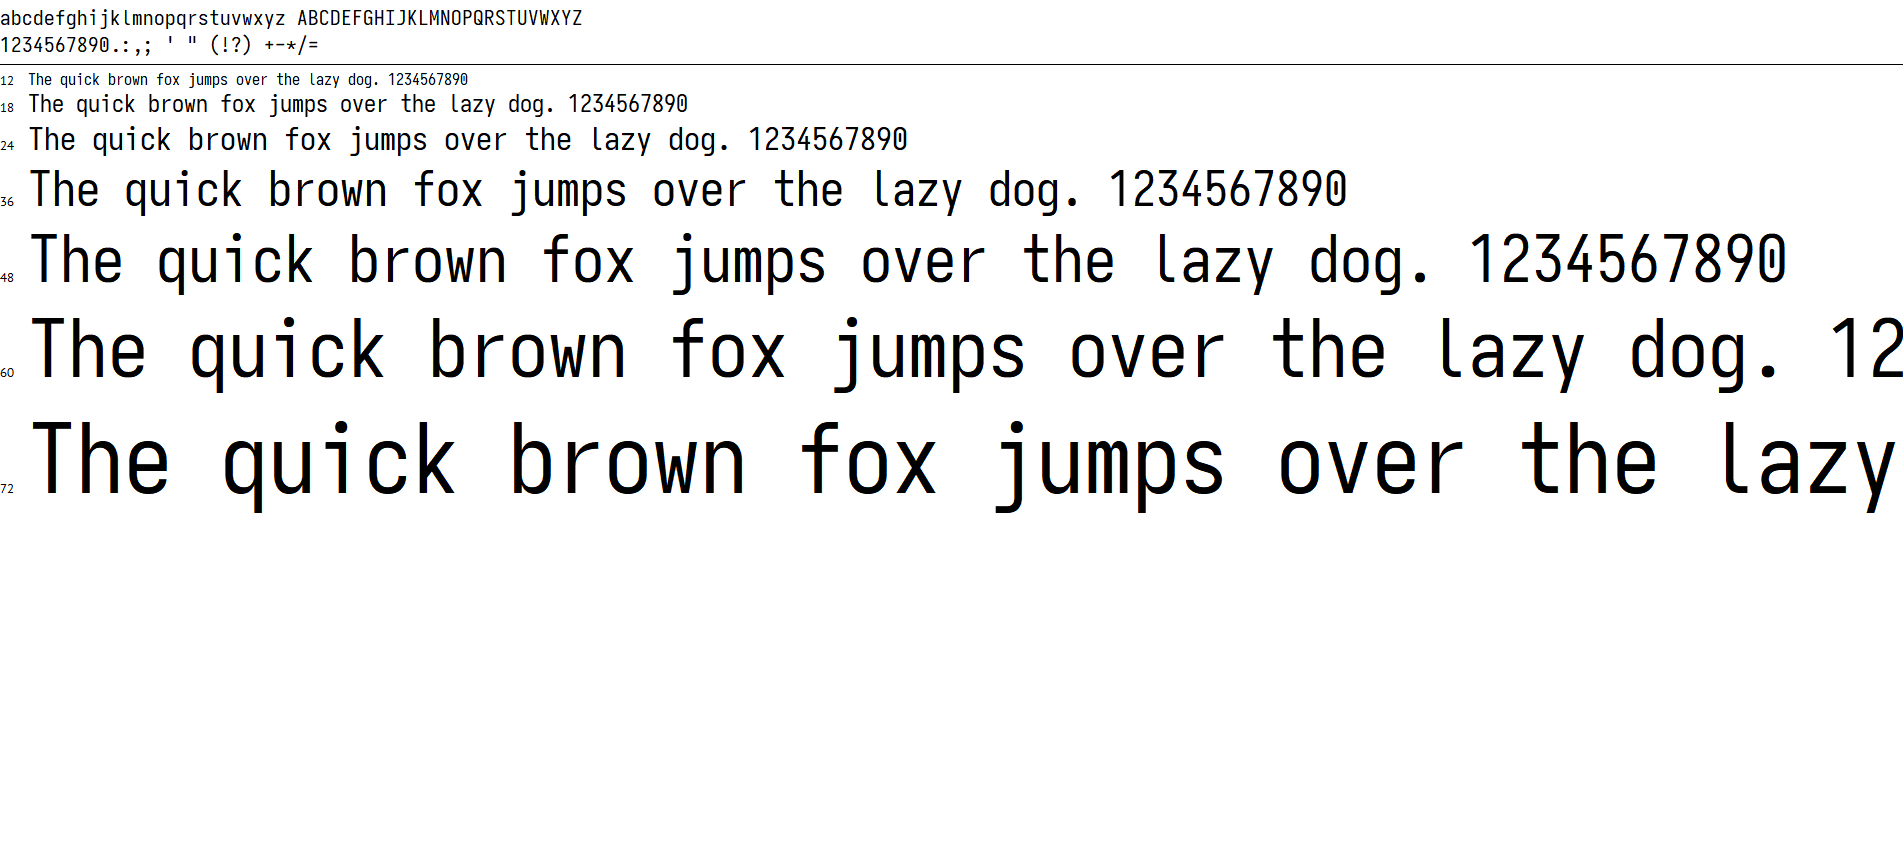
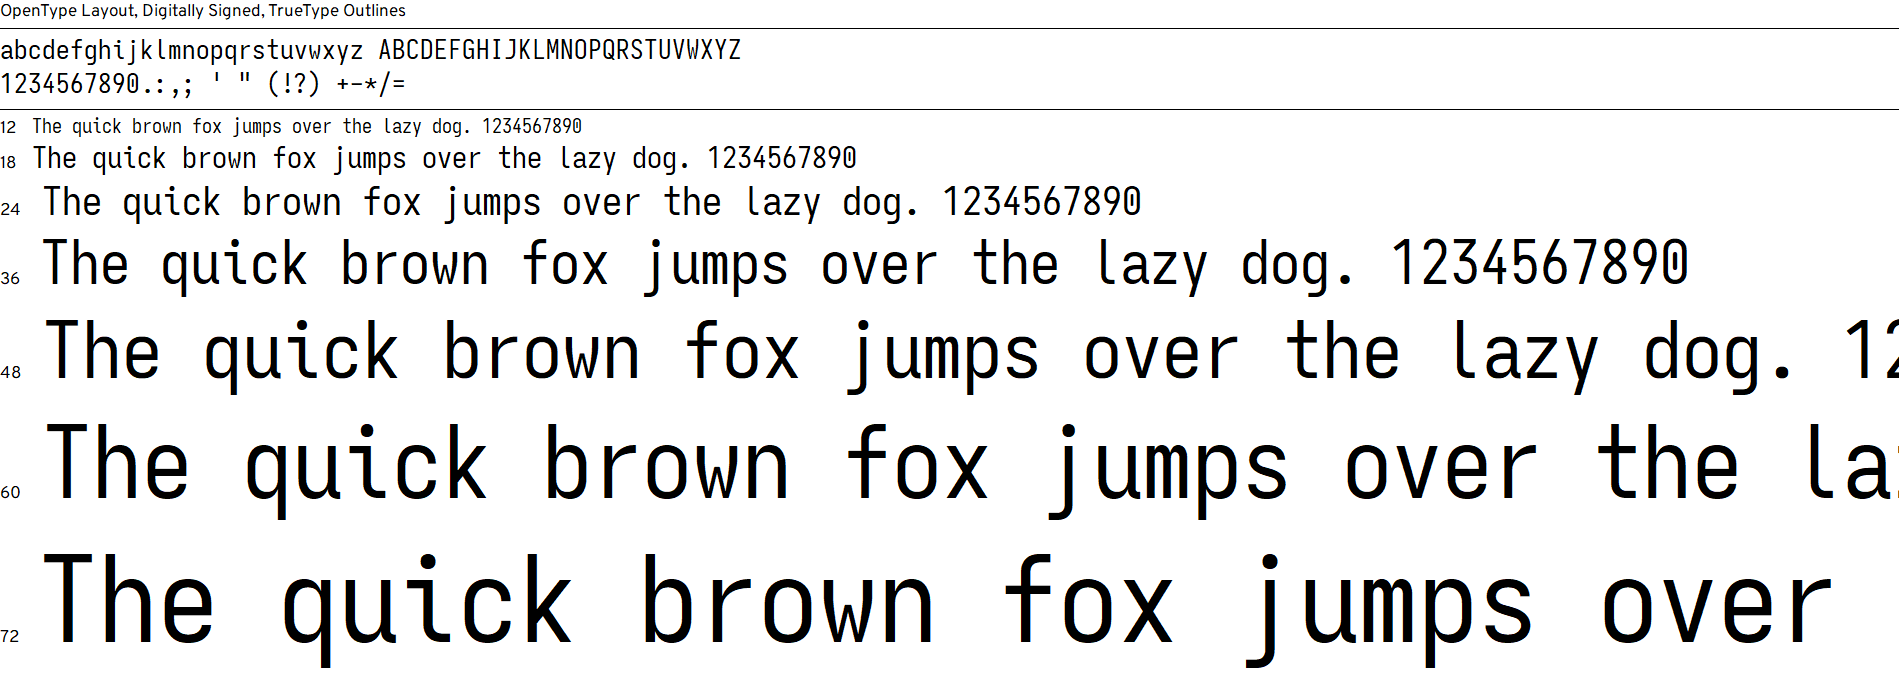
Updated personal-works/trentb-on-gatsby page

diff --git a/src/pages/works/personal-works/trentb-on-gatsby.js b/src/pages/works/personal-works/trentb-on-gatsby.js
@@ -124,21 +124,14 @@ export default function TrentBOnGatsby() {
         <ul>
           <li>
             <a 
-              href="https://fonts.google.com/specimen/PT+Sans">
-              PT Sans
+              href="https://fonts.google.com/specimen/Overpass">
+              Overpass
             </a>
-            : My favourite font that I've used almost anywhere: It's the default 
-            font I've set for OneNote and Word, and it's a font I've set as the 
-            system default using a regedit script. It's only fitting that it's 
-            also the default font for the content body.
-          </li>
-          <li>
-            <a
-              href="https://fonts.google.com/specimen/Monda">
-              Monda
-            </a>
-            : Its nice blocky style makes it a good font for the navigation bar, 
-            and it blends in very well with the other fonts on this site.
+            : Based on the Highway Gothic font, I've used it for Cities Skylines
+            and started to like it so much that I began using it as my system 
+            default font. For the website, it's currently used for the navigation 
+            bar and the content body. The alternate fonts are Arial and Helvetica 
+            for the navi and Trebuchet MS for the content body.
           </li>
           <li>
             <a
@@ -149,13 +142,17 @@ export default function TrentBOnGatsby() {
             default font in my IDEs for quite a long time, and it's currently my 
             default font for my Command Prompt, Powershell, and Terminal. It's 
             the same font used for the terminals in Fallout 4, one of my favourite 
-            single player video games.
+            single player video games. For this website, it's currently used for 
+            <code>inline code displays</code>. The alternate font is Consolas.
           </li>
           <li>
-            Iosevka: This variant of Iosevka used for the headers is actually a 
-            customized version built through Node.js. I really like how I'm able 
-            to change some of the letters to build the perfect font I'd use 
-            everyday in my IDE's.
+            <a
+              href="https://github.com/be5invis/Iosevka">
+              Iosevka
+            </a>
+            : I've custom-built Iosevka through Node.js that I'm using for my 
+            IDE's. For this website, it's being used for content headers. The 
+            alternate fonts are Arial and Helvetica. 
           </li>
         </ul>
       </p>

diff --git a/src/styles/trentb10-style.scss b/src/styles/trentb10-style.scss
@@ -37,8 +37,7 @@
 
 /* [FOIM] Font Imports */
 
-@import url('https://fonts.googleapis.com/css2?family=IBM+Plex+Sans:ital,wght@0,400;0,700;1,400;1,700&display=swap');
-@import url('https://fonts.googleapis.com/css2?family=PT+Sans:ital,wght@0,400;0,700;1,400;1,700&display=swap');
+@import url('https://fonts.googleapis.com/css2?family=IBM+Plex+Sans:ital,wght@0,100;0,400;0,700;1,100;1,400;1,700&display=swap');
 @import url('https://fonts.googleapis.com/css2?family=Overpass:ital,wght@0,100;0,400;0,700;1,400;1,700&display=swap');
 @import url('https://fonts.googleapis.com/css2?family=Monda:ital,wght@0,400;0,700;1,400;1,700&display=swap');
 @import url('https://fonts.googleapis.com/css2?family=Share+Tech+Mono:ital,wght@0,400;0,700;1,400;1,700&display=swap');
